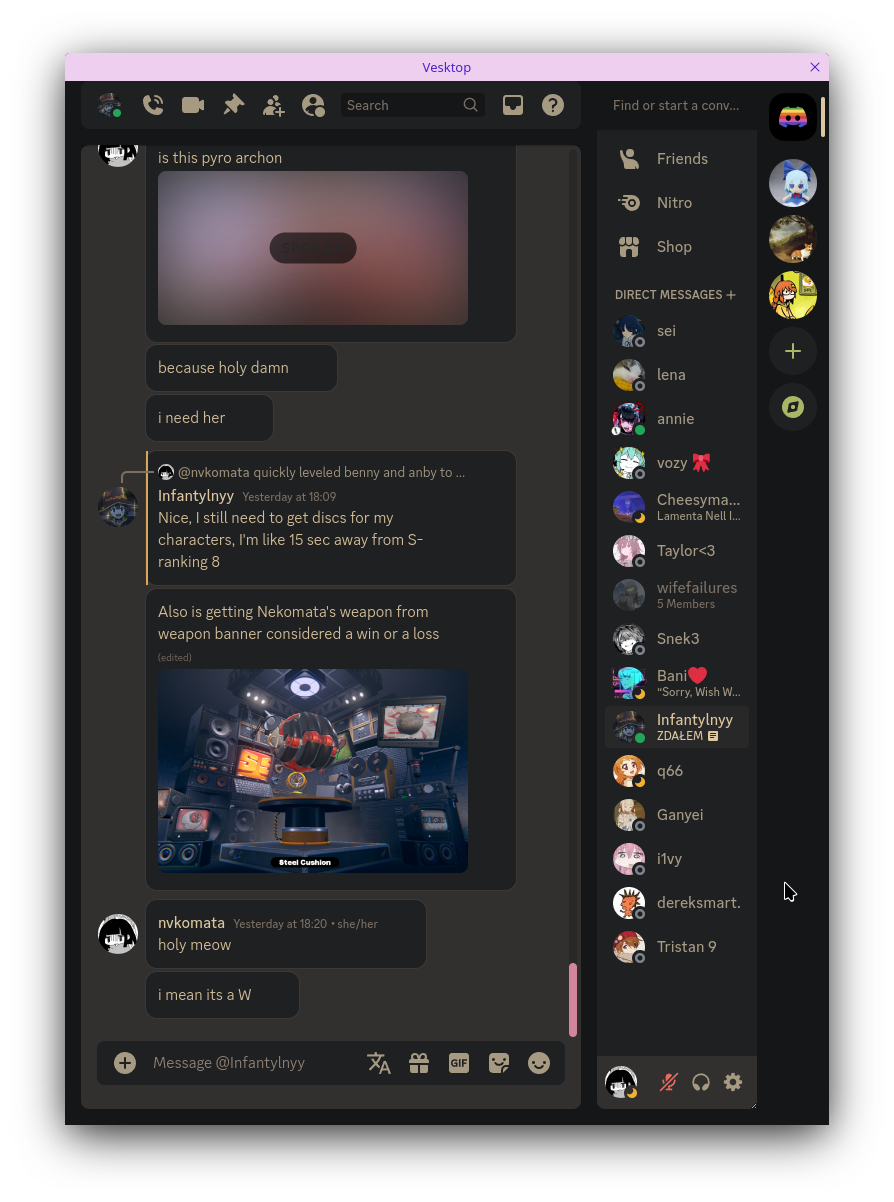
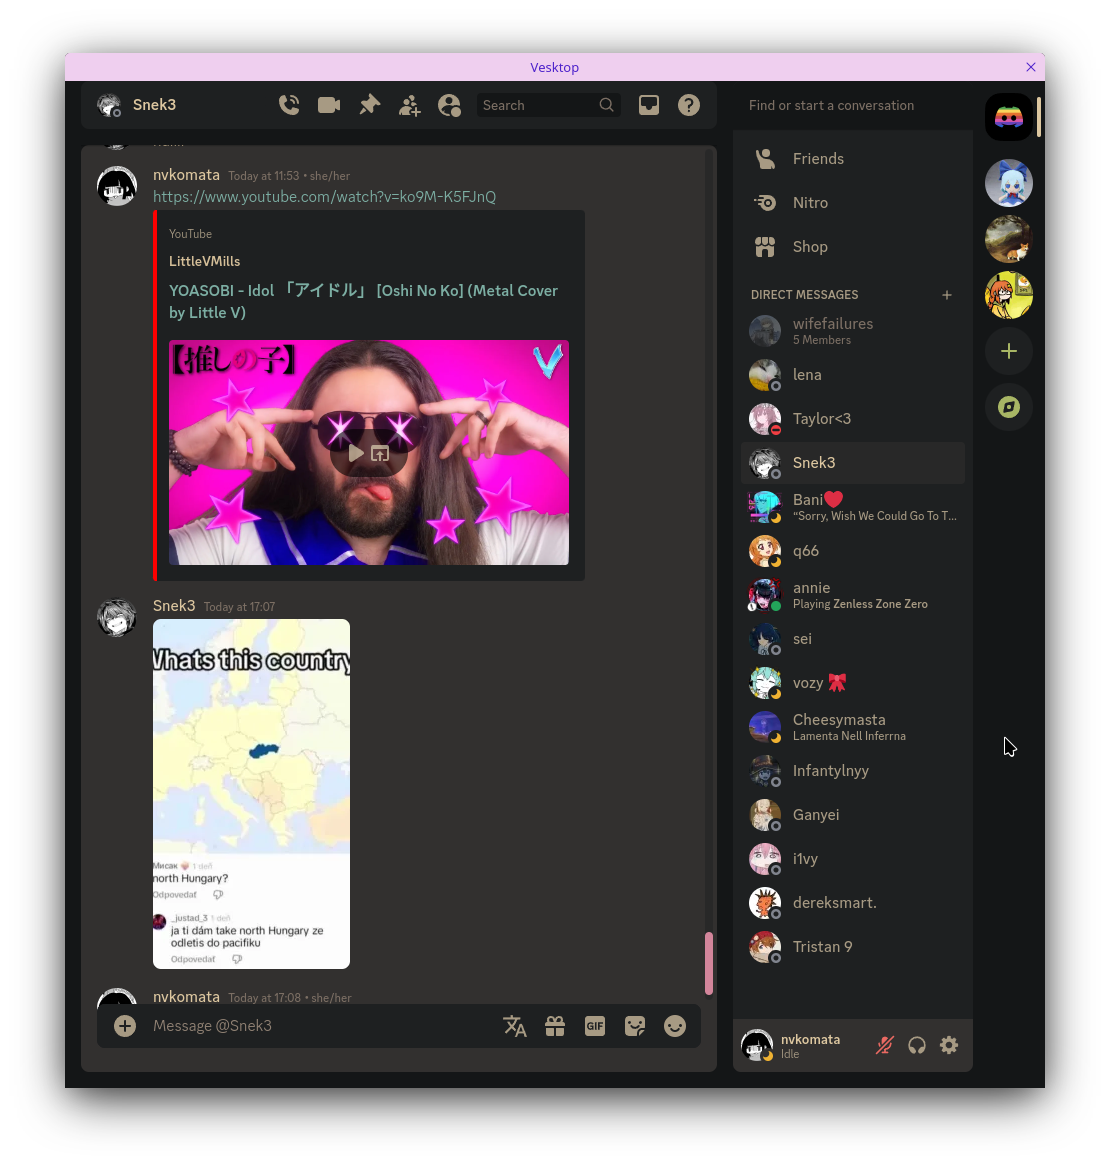
better chat bubbles, readme, tweaks readme and screenshots

diff --git a/tweaks/chat-bubbles.css b/tweaks/chat-bubbles.css
@@ -15,7 +15,49 @@
 [id^="chat"] [class*="timestampVisibleOnHover"] {
     margin-left: -4rem;
 }
-  
+
 li[class^="card_"] [class^="message_"] {
     margin: 0.25rem 0;
+}
+
+li[data-is-self="true"]>[class^="message"] {
+    background-color: color-mix(in srgb, var(--brand-500) 40%, black);
+}
+
+.theme-light li[data-is-self="true"]>[class^="message"] {
+    background-color: color-mix(in srgb, var(--brand-500) 40%, white);
+}
+
+li[data-is-self="true"]>[class^="message"] {
+    margin-left: auto;
+    margin-right: 3.5em;
+    max-width: calc(100% - 12rem);
+    padding-right: 2rem !important; /* why is this required? because discord devs suck and used !important in their own css */
+}
+
+li[data-is-self="true"]>[class^="message"] img[class*="avatar"] {
+    margin-left: auto;
+    right: 0;
+    margin-right: -3em;
+}
+
+li[data-is-self="true"]>[class^="message"] h3[aria-labelledby*="message-username"]>span:not([class^="timestamp_"]) {
+    display: none;
+}
+
+li[data-is-self="true"]>[class^="message"] h3[aria-labelledby*="message-username"]>span {
+    float: right;
+}
+
+li[data-is-self="true"]>[class^="message"] div[class*="repliedMessage_"] {
+    flex-direction: row-reverse;
+    gap: 0.25rem;
+    margin-right: -1.6rem;
+}
+
+li[data-is-self="true"]>[class^="message"] div[class*="repliedMessage_"]::before {
+    transform: scaleX(-1);
+    -webkit-transform: scaleX(-1);
+    left: 100%;
+    right: calc(-1*(.5*var(--avatar-size) + var(--gutter)));
 }

diff --git a/tweaks/readme.md b/tweaks/readme.md
@@ -7,6 +7,11 @@ tl;dr this repo is free game
 
 ### Chat bubbles
 
+> [!IMPORTANT]  
+> for your own message bubbles to be right aligned and highlighted, you need this vencord plugin
+>
+> ![you need this](image.png)
+
 ```
 https://raw.githubusercontent.com/nvkomata/vegetable-oil/main/tweaks/chat-bubbles.css
 ```
@@ -39,13 +44,3 @@ https://raw.githubusercontent.com/nvkomata/vegetable-oil/main/tweaks/right-align
 ![right aligned layout preview](/tweaks/previews/ral.png)
 
 </details>
-
-if using in combination with chat bubbles tweak, put this in your quickcss
-
-```css
-div[id^="popout_"]:has([id="emoji-picker-tab-panel"]) {
-    transform: translateX(-30%);
-}
-```
-
----

diff --git a/README.md b/README.md
@@ -1,5 +1,6 @@
 # vegetable-oil
-a modern discord theme based on [vencord-theme](https://github.com/Synqat/vencord-theme), with fixes and improvements
+a modern discord theme based on [vencord-theme](https://github.com/Synqat/vencord-theme), 
+with fixes, improvements and [additional optional tweaks](https://github.com/nvkomata/vegetable-oil/tree/main/tweaks#welcome-to-veggie-oil-tweaks)
 
 ![screenshot](screenshot.png)
 
@@ -21,3 +22,6 @@ it's what i cook human meat on, and like, come on, doesn't the theme just remind
 
 ### found a bug? have a suggestion?
 make an issue on this repo
+
+### do you like this theme and/or its tweaks?
+give it a star ⭐ c:
